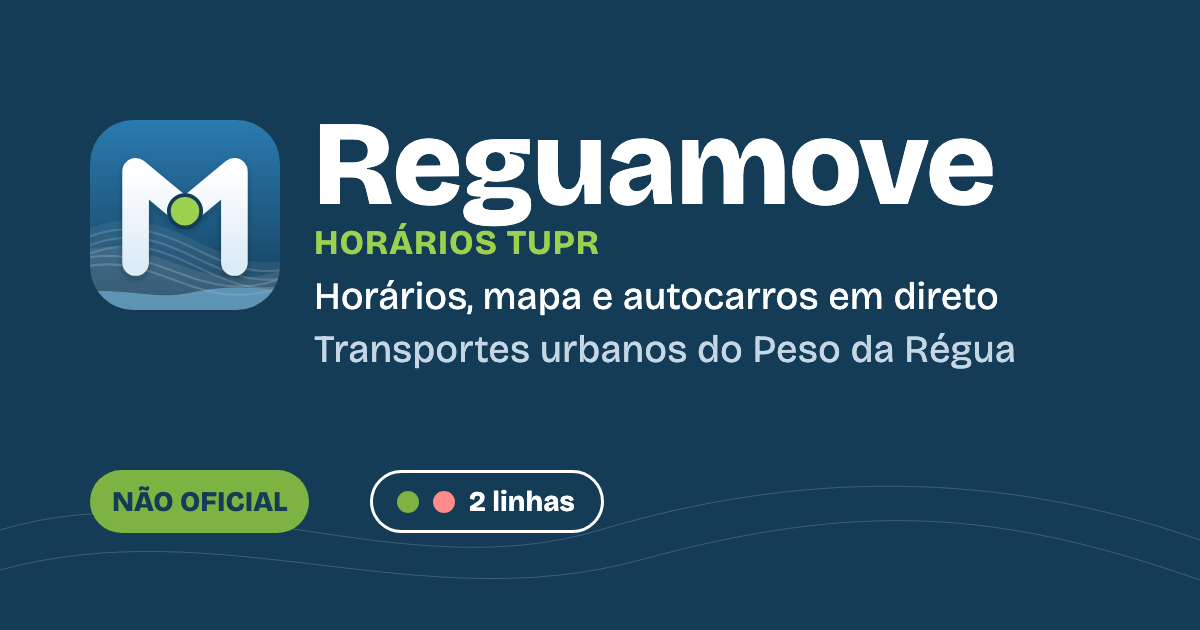
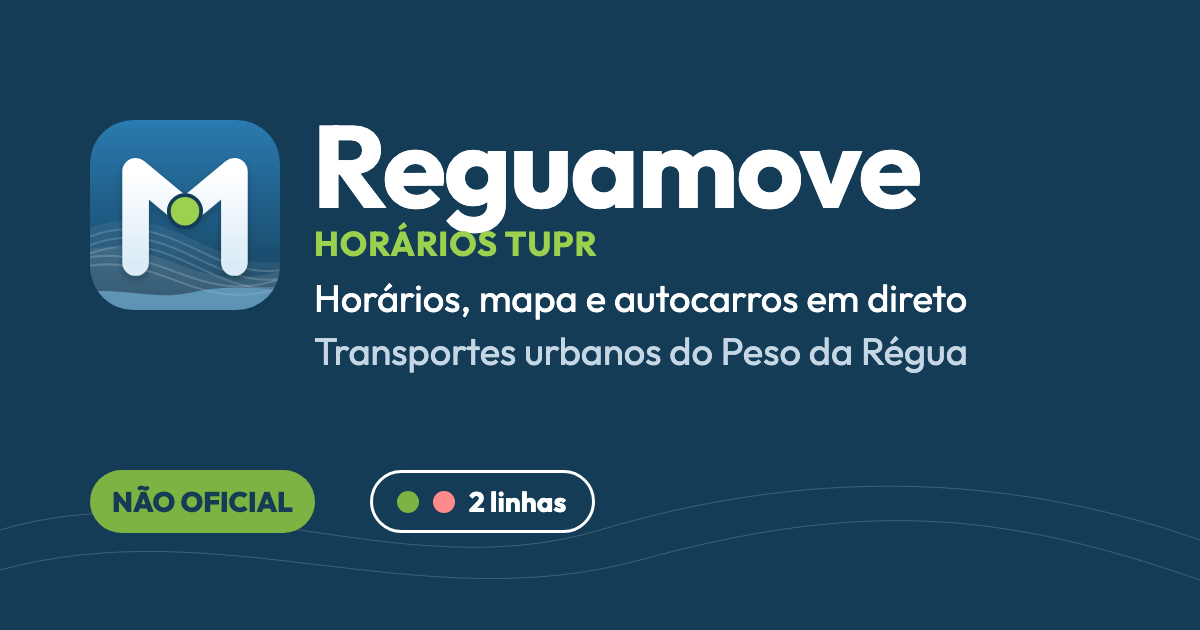
Tipografia sem serifa (Outfit) no nome da app, títulos e imagem de partilha

diff --git a/src/index.css b/src/index.css
@@ -1,5 +1,5 @@
 @import '@fontsource-variable/inter';
-@import '@fontsource-variable/bricolage-grotesque';
+@import '@fontsource-variable/outfit';
 @import 'leaflet/dist/leaflet.css';
 @import 'tailwindcss';
 
@@ -60,7 +60,7 @@
   --color-warn: var(--warn);
   --color-bad: var(--bad);
   --font-sans: 'Inter Variable', system-ui, -apple-system, 'Segoe UI', sans-serif;
-  --font-display: 'Bricolage Grotesque Variable', 'Inter Variable', system-ui, sans-serif;
+  --font-display: 'Outfit Variable', 'Inter Variable', system-ui, sans-serif;
 }
 
 html { scroll-behavior: smooth; -webkit-text-size-adjust: 100%; }
